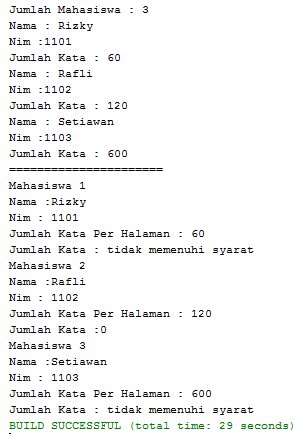
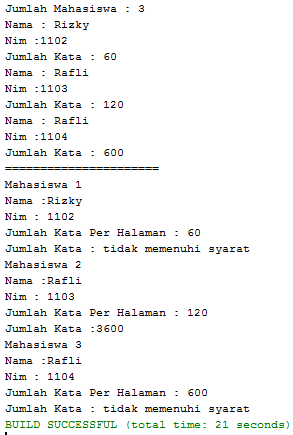
update class Mahasiswa dan ss, ada typo

Changed region(s): [[0.0, 0.0, 1.0, 1.0], [0.6451, 0.6889, 0.7372, 0.7488]]

diff --git a/Latihan-PL-Bab-1/src/Mahasiswa.java b/Latihan-PL-Bab-1/src/Mahasiswa.java
@@ -18,7 +18,7 @@ public class Mahasiswa{
             System.out.println("Nim : "+nim);
             System.out.println("Jumlah Kata Per Halaman : "+jumlah_kata_perhalaman);
             if (jumlah_kata_perhalaman>100 && jumlah_kata_perhalaman<500){
-                jmlKata=jmlKata*30;
+                jmlKata=jumlah_kata_perhalaman*30;
             System.out.println("Jumlah Kata :"+jmlKata);
             } else {System.out.println("Jumlah Kata : tidak memenuhi syarat");}
 
